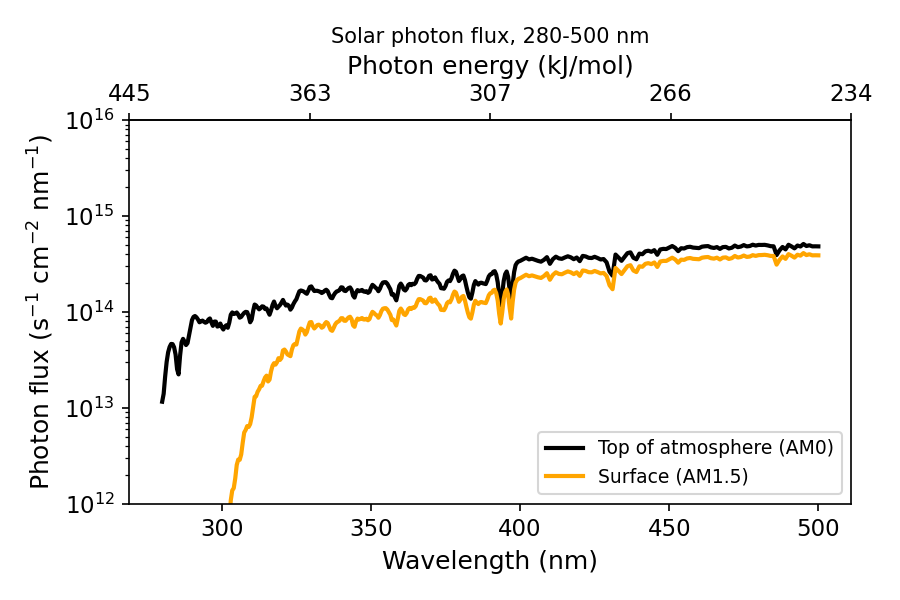
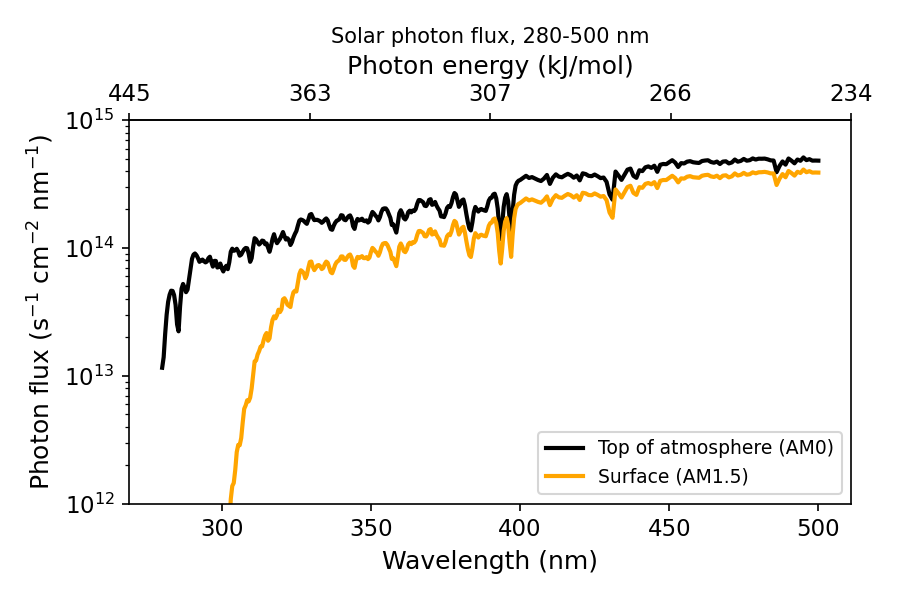
updates for the kinetics bits

diff --git a/scripts/plot_abc_chain.py b/scripts/plot_abc_chain.py
@@ -1,0 +1,75 @@
+"""
+Plot the A -> B -> C chain reaction (Module 2, Chemical Kinetics notes),
+comparing the exact solution for [B] against the steady-state
+approximation [B]_ss = k1[A]/k2, for two (k1, k2) pairs.
+
+    d[A]/dt = -k1[A]
+    d[B]/dt = k1[A] - k2[B]
+    d[C]/dt = k2[B]
+
+Solved analytically (closed form for a linear first-order chain), so no
+numerical ODE integration is required:
+
+    [A](t) = A0 exp(-k1 t)
+    [B](t) = k1 A0 / (k2 - k1) * (exp(-k1 t) - exp(-k2 t))
+    [C](t) = A0 - [A](t) - [B](t)
+
+Reproduces the A->B->C figure from notebooks/02-chemical-kinetics.ipynb,
+in the house plot style used elsewhere in the course repo.
+
+Requires: numpy, matplotlib
+    pip install numpy matplotlib
+
+Run:
+    python plot_abc_chain.py
+"""
+
+from pathlib import Path
+
+import numpy as np
+import matplotlib.pyplot as plt
+
+from _plot_style import LINEWIDTH, FONTSIZE, TITLE_FONTSIZE, COLORS, apply_style
+
+REPO_ROOT = Path(__file__).resolve().parent.parent
+FIGURES_DIR = REPO_ROOT / "assets" / "figures"
+
+A0 = 1.0
+K_PAIRS = [(1, 2), (1, 10)]  # (k1, k2), s^-1
+
+
+def abc_chain(t, k1, k2, A0=1.0):
+    A = A0 * np.exp(-k1 * t)
+    B = k1 * A0 / (k2 - k1) * (np.exp(-k1 * t) - np.exp(-k2 * t))
+    C = A0 - A - B
+    return A, B, C
+
+
+def main():
+    t = np.linspace(0, 8, 400)
+
+    apply_style()
+    fig, axes = plt.subplots(1, 2, figsize=(9, 4), sharey=True)
+
+    for ax, (k1, k2) in zip(axes, K_PAIRS):
+        A, B, C = abc_chain(t, k1, k2, A0)
+        B_ss = k1 * A / k2
+
+        ax.plot(t, A, color=COLORS[0], lw=LINEWIDTH, label="[A]")
+        ax.plot(t, B, color=COLORS[1], lw=LINEWIDTH, label="[B]")
+        ax.plot(t, B_ss, color=COLORS[1], lw=LINEWIDTH, linestyle="--", label="[B]$_{ss}$")
+        ax.plot(t, C, color=COLORS[2], lw=LINEWIDTH, label="[C]")
+        ax.set_xlabel("Time (s)", fontsize=FONTSIZE)
+        ax.set_title(f"k$_1$={k1}, k$_2$={k2} s$^{{-1}}$", fontsize=TITLE_FONTSIZE)
+        ax.tick_params(labelsize=FONTSIZE - 1)
+
+    axes[0].set_ylabel("Concentration (arb. units)", fontsize=FONTSIZE)
+    axes[1].legend(fontsize=FONTSIZE - 3, loc="upper right")
+
+    fig.tight_layout()
+    fig.savefig(FIGURES_DIR / "m2-fig-abc-chain.png", dpi=150)
+    print("Saved plot to m2-fig-abc-chain.png")
+
+
+if __name__ == "__main__":
+    main()

diff --git a/scripts/plot_first_order_decay.py b/scripts/plot_first_order_decay.py
@@ -1,0 +1,49 @@
+"""
+Plot first-order decay of [A] for several rate coefficients k, in the
+house plot style used elsewhere in the course repo.
+
+Reproduces Fig 2.1 from the Module 2 (Chemical Kinetics) notes /
+notebook (notebooks/02-chemical-kinetics.ipynb).
+
+Requires: numpy, matplotlib
+    pip install numpy matplotlib
+
+Run:
+    python plot_first_order_decay.py
+"""
+
+from pathlib import Path
+
+import numpy as np
+import matplotlib.pyplot as plt
+
+from _plot_style import FIGSIZE, LINEWIDTH, FONTSIZE, TITLE_FONTSIZE, COLORS, apply_style
+
+REPO_ROOT = Path(__file__).resolve().parent.parent
+FIGURES_DIR = REPO_ROOT / "assets" / "figures"
+
+K_VALUES = [0.5, 1, 2, 4]  # s^-1
+A0 = 1.0
+
+
+def main():
+    t = np.linspace(0, 5, 200)
+
+    apply_style()
+    fig, ax = plt.subplots(figsize=FIGSIZE)
+    for color, k in zip(COLORS, K_VALUES):
+        ax.plot(t, A0 * np.exp(-k * t), color=color, lw=LINEWIDTH, label=f"k = {k} s$^{{-1}}$")
+
+    ax.set_xlabel("Time (s)", fontsize=FONTSIZE)
+    ax.set_ylabel("[A]/[A]$_0$", fontsize=FONTSIZE)
+    ax.set_title("First-order decay", fontsize=TITLE_FONTSIZE)
+    ax.tick_params(labelsize=FONTSIZE - 1)
+    ax.legend(fontsize=FONTSIZE - 3, loc="upper right")
+
+    fig.tight_layout()
+    fig.savefig(FIGURES_DIR / "m2-fig2-1-first-order-decay.png", dpi=150)
+    print("Saved plot to m2-fig2-1-first-order-decay.png")
+
+
+if __name__ == "__main__":
+    main()

diff --git a/scripts/plot_photon_flux_toa_surface.py b/scripts/plot_photon_flux_toa_surface.py
@@ -67,7 +67,7 @@ def main():
     ax.set_ylabel("Photon flux (s$^{-1}$ cm$^{-2}$ nm$^{-1}$)", fontsize=FONTSIZE)
     ax.set_title("Solar photon flux, 280-500 nm", fontsize=TITLE_FONTSIZE)
     ax.tick_params(labelsize=FONTSIZE - 1)
-    ax.set_ylim(1e12, 1e16)
+    ax.set_ylim(1e12, 1e15)
     ax.legend(fontsize=FONTSIZE - 3, loc="lower right")
     add_energy_axis(ax)
     fig.tight_layout()

diff --git a/lectures/02-chemical-kinetics.md b/lectures/02-chemical-kinetics.md
@@ -63,7 +63,12 @@ $$\frac{d[B]}{dt} = k_1[A] - k_2[B]$$
 
 $$\frac{d[C]}{dt} = k_2[B]$$
 
-Solutions to these equations for $k_1 = 1$ s⁻¹, $k_2 = 2$ s⁻¹, and (separately) $k_1 = 1$ s⁻¹, $k_2 = 10$ s⁻¹, are worth plotting side by side (see the notebook). What you will notice is that the intermediate $B$ is short-lived relative to $C$, and that as the value of $k_2$ increases, the peak concentration of $B$ decreases. The time it takes for $B$ to reach an almost-steady concentration is $\sim 1/k_2$. In the limit where $k_2 \gg k_1$ we can make the approximation:
+Solutions to these equations for $k_1 = 1$ s⁻¹, $k_2 = 2$ s⁻¹, and (separately) $k_1 = 1$ s⁻¹, $k_2 = 10$ s⁻¹, are worth plotting side by side (see the notebook for details).
+
+![A -> B -> C chain reaction: exact [B] vs the steady-state approximation, for two (k1, k2) pairs](../assets/figures/m2-fig-abc-chain.png)
+*Figure — The A → B → C chain reaction for $(k_1,k_2) = (1,2)$ s⁻¹ (left) and $(1,10)$ s⁻¹ (right), comparing the exact $[B]$ (solid) against the steady-state approximation $[B]_{ss} = k_1[A]/k_2$ (dashed).*
+
+What you will notice is that the intermediate $B$ is short-lived relative to $C$, and that as the value of $k_2$ increases, the peak concentration of $B$ decreases. The time it takes for $B$ to reach an almost-steady concentration is $\sim 1/k_2$. In the limit where $k_2 \gg k_1$ we can make the approximation:
 
 $$\frac{d[B]_{ss}}{dt} \simeq 0$$
 
@@ -81,7 +86,36 @@ In the atmosphere there are many examples of compounds that can be considered to
 
 Often we will consider the concept of an **air parcel** throughout this course. An air parcel can be thought of as a "box of air." Suppose there are two species in the box, A and B. There are emissions of A, $F_A$, and A can undergo reactions (conversion) to form B, which subsequently is lost via other processes. We can consider what the inputs into the box are, and what the outputs are — and appeal to steady state to write down steady-state solutions for $[A]$ and $[B]$, and hence an expression for the ratio $[B]_{ss}/[A]_{ss}$.
 
-Finally, integrating $d[A]/dt$ with the boundary condition $[A]_0$ at $t_0 = 0$ shows that, for a species with constant production $F_A$ and pseudo-first-order loss $k'$:
+<details>
+<summary><strong>Worked derivation: steady-state ratio [B]<sub>ss</sub>/[A]<sub>ss</sub> for a source of A feeding into B</strong></summary>
+
+Consider the box model described above: A is emitted at a constant rate $F_A$ and is lost with pseudo-first-order rate constant $k'$ (converting it to B); B is in turn lost with pseudo-first-order rate constant $k''$.
+
+$$\frac{d[A]}{dt} = F_A - k'[A]$$
+
+$$\frac{d[B]}{dt} = k'[A] - k''[B]$$
+
+**Step 1 — steady state for A.** Setting $d[A]/dt = 0$:
+
+$$0 = F_A - k'[A]_{ss} \quad\Longrightarrow\quad [A]_{ss} = \frac{F_A}{k'}$$
+
+**Step 2 — steady state for B.** Setting $d[B]/dt = 0$ and substituting $[A]_{ss}$:
+
+$$0 = k'[A]_{ss} - k''[B]_{ss} \quad\Longrightarrow\quad [B]_{ss} = \frac{k'[A]_{ss}}{k''}$$
+
+**Step 3 — take the ratio.** Dividing $[B]_{ss}$ by $[A]_{ss}$, the $[A]_{ss}$ cancels:
+
+$$\frac{[B]_{ss}}{[A]_{ss}} = \frac{k'[A]_{ss}/k''}{[A]_{ss}} = \frac{k'}{k''}$$
+
+**Step 4 — rewrite in terms of lifetimes.** Since $k'$ and $k''$ are just the pseudo-first-order loss rate constants for A and B respectively, they define the corresponding lifetimes $\tau_A = 1/k'$ and $\tau_B = 1/k''$ (Section 2.1). Substituting:
+
+$$\frac{[B]_{ss}}{[A]_{ss}} = \frac{k'}{k''} = \frac{1/\tau_A}{1/\tau_B} = \frac{\tau_B}{\tau_A}$$
+
+So the steady-state concentration ratio of a product to its precursor is simply the ratio of their lifetimes: a short-lived product (small $\tau_B$) sits at a low steady-state concentration relative to its precursor, regardless of the details of $F_A$ — this is the same intuition as the A → B → C chain above, just recast for a species with continuous emission rather than a fixed initial concentration.
+
+</details>
+
+Integrating $d[A]/dt$ with the boundary condition $[A]_0$ at $t_0 = 0$ shows that, for a species with constant production $F_A$ and pseudo-first-order loss $k'$:
 
 $$[A]_t = \frac{F_A}{k'}\left(1 - \exp(-k't)\right)$$
 
